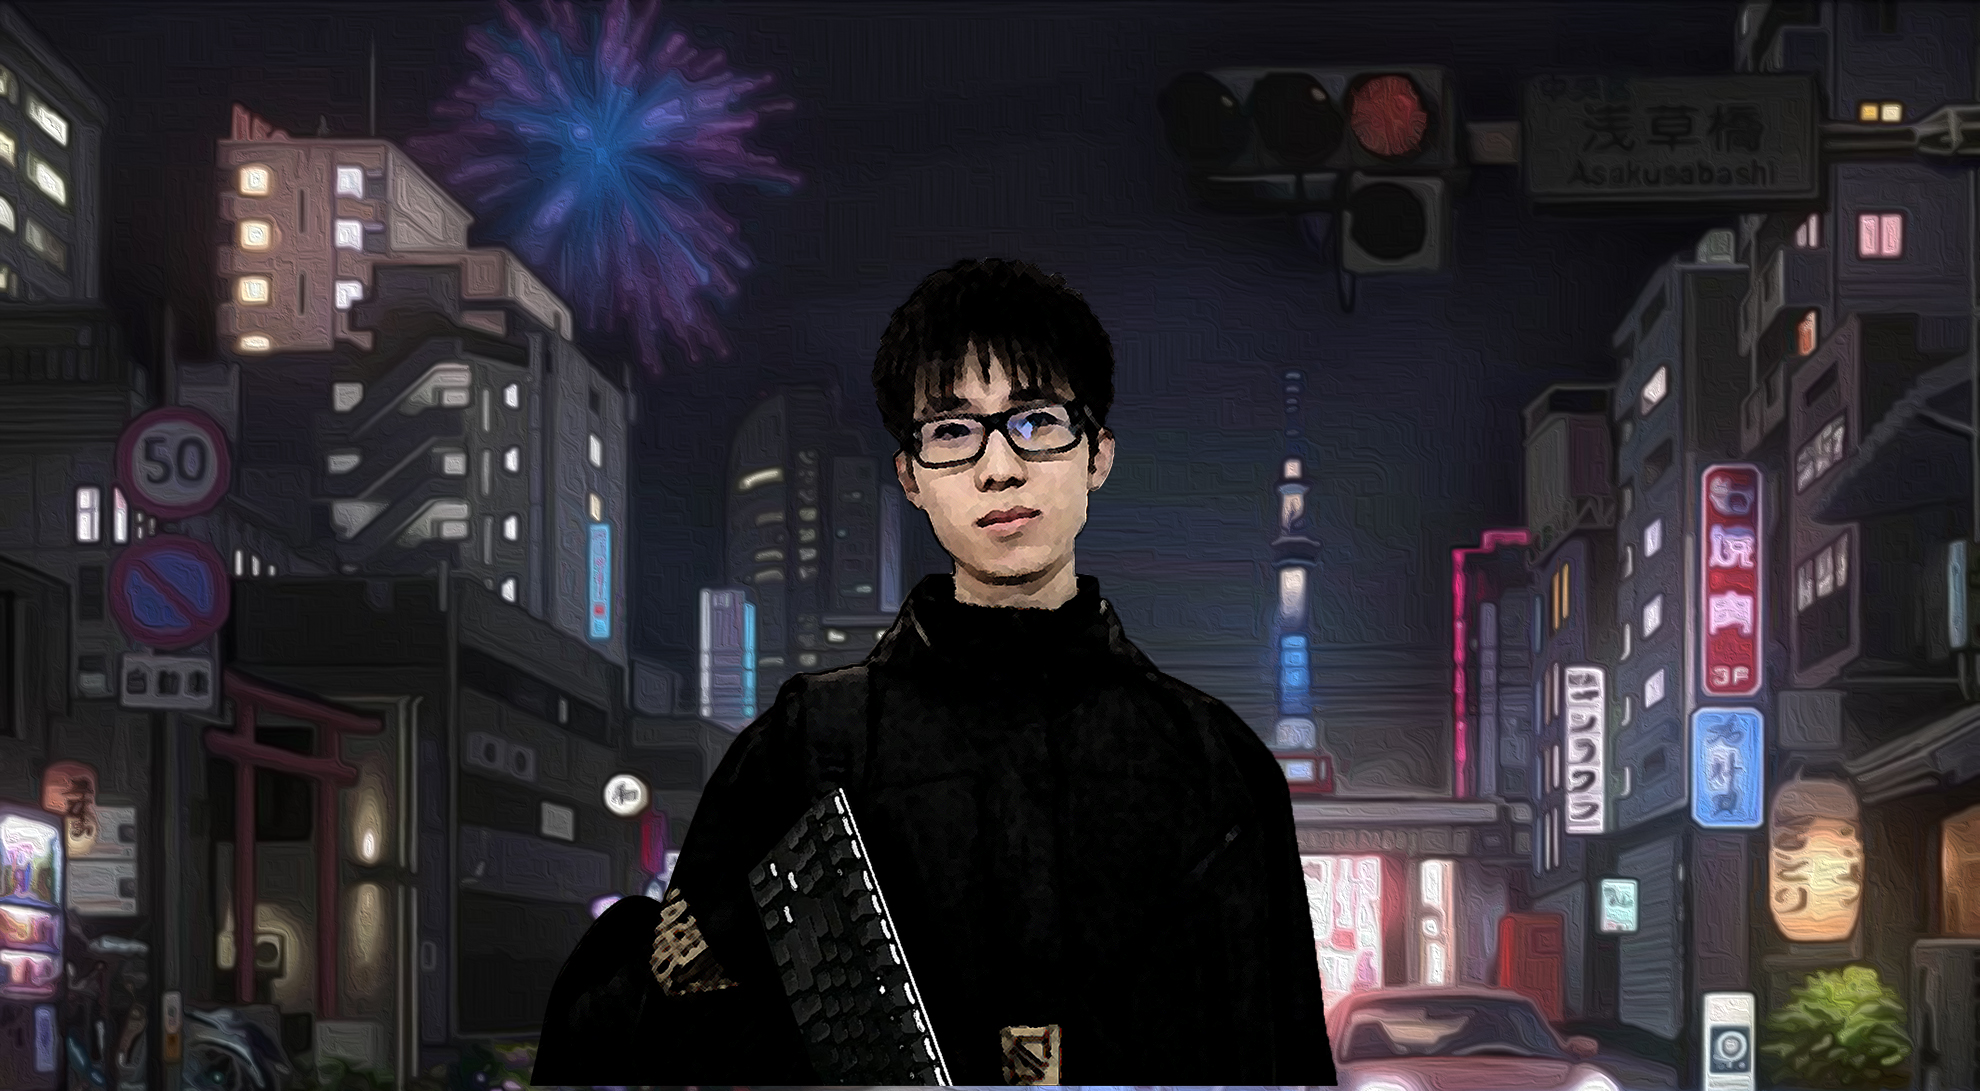
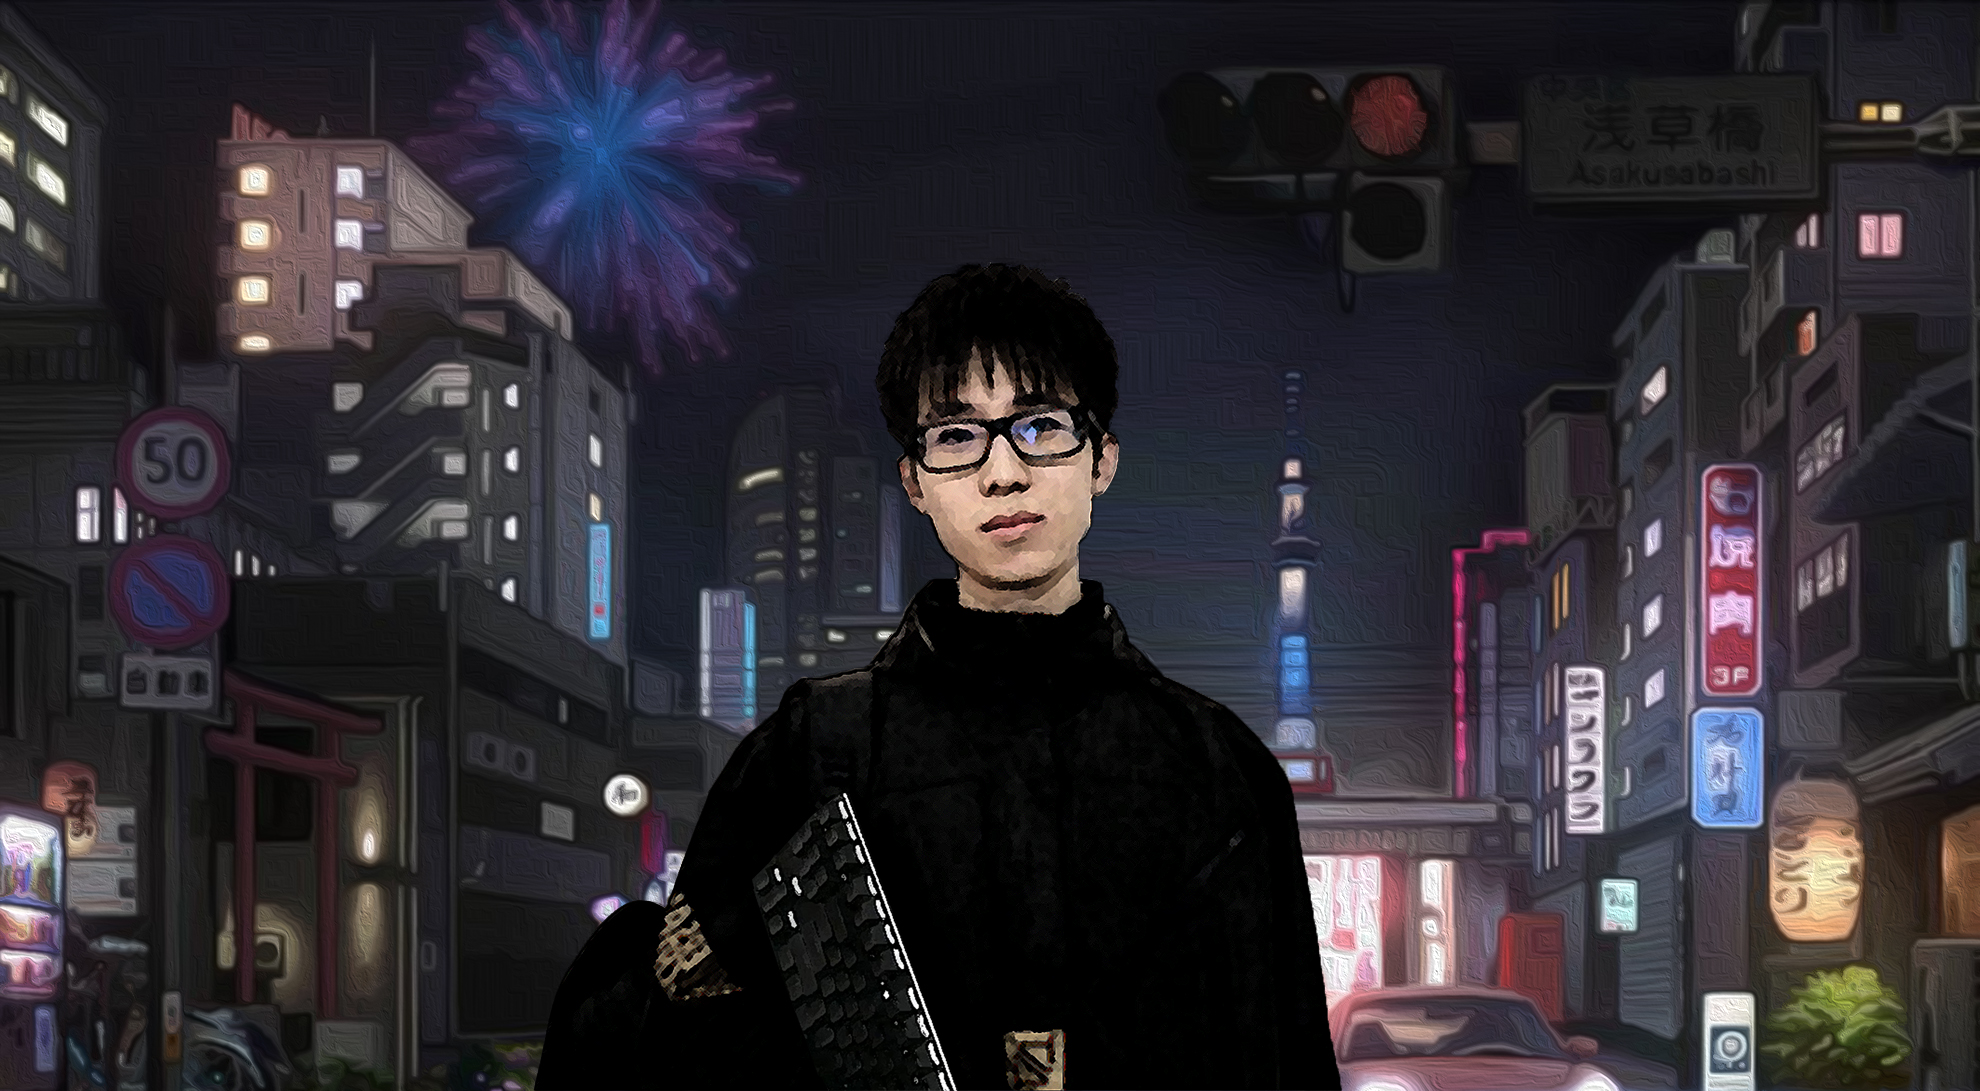
fix: fit landing pic to screen

diff --git a/src/components/pageScroll/Container.jsx b/src/components/pageScroll/Container.jsx
@@ -214,9 +214,9 @@ const useHandlers = (ref, activeSections, context) => {
       preventDefault(e)
       clearAnimationQueue()
       const touchPoint = e
-      touchStartY = touchPoint.pageY
+      touchStartY = touchPoint.clientY
       touchEventStart = e
-      touchPointYList.push(touchPoint.pageY)
+      touchPointYList.push(touchPoint.clientY)
       touchPointTimeStamp.push(Date.now())
       // touchEventList.push(e)
       // while (touchPointYList.length > 5) {
@@ -247,9 +247,9 @@ const useHandlers = (ref, activeSections, context) => {
       let verticalMove = 0
       if (touchPointYList.length > 0) {
         verticalMove =
-          touchPoint.pageY - touchPointYList[touchPointYList.length - 1]
+          touchPoint.clientY - touchPointYList[touchPointYList.length - 1]
       }
-      touchPointYList.push(touchPoint.pageY)
+      touchPointYList.push(touchPoint.clientY)
       touchPointTimeStamp.push(Date.now())
       touchEventList.push(e)
 
@@ -286,7 +286,7 @@ const useHandlers = (ref, activeSections, context) => {
       // e.stopPropagation()
       const touchPoint = e
       // touchEndX = touchPoint.clientX
-      touchEndY = touchPoint.pageY
+      touchEndY = touchPoint.clientY
 
       const verticalMove = touchEndY - touchPointYList[0]
       let idlingTime = Date.now() // - touchPointTimeStamp[touchPointTimeStamp.length - 1]
@@ -317,6 +317,7 @@ const useHandlers = (ref, activeSections, context) => {
 
     function pointerCancelHandler() {
       touchPointYList.splice(0)
+      isPointerDown = false
     }
     function keyDownHandler(e) {
       if (e.key === "Control") {
@@ -441,7 +442,7 @@ function Container({ children }) {
     ref.current.addEventListener("pointerup", touchEndHandler, {
       passive: false,
     })
-    ref.current.addEventListener("pointercancel", pointerCancelHandler, {
+    ref.current.addEventListener("pointerout", pointerCancelHandler, {
       passive: false,
     })
 

diff --git a/src/components/header/Jumbotron.jsx b/src/components/header/Jumbotron.jsx
@@ -31,8 +31,8 @@ const Jumbotron = ({ image }) => {
         {`
           figure {
             overflow: hidden;
-            width: 100vw;
-            height: 100vh;
+            width: 100%;
+            height: 100%;
           }
           figure:before {
             content: "";

diff --git a/src/components/layout.css b/src/components/layout.css
@@ -19,11 +19,12 @@ body {
 .scrollDiv{
   overflow-y: auto !important;
   height:100vh;
+  width:100vw;
   margin: 0;
   padding: 0;
   z-index: 1;
   /* touch-action: none; */
-  /* touch-action: pan-x pinch-zoom; */
+  touch-action: pan-x pinch-zoom;
 }
 
 article,
